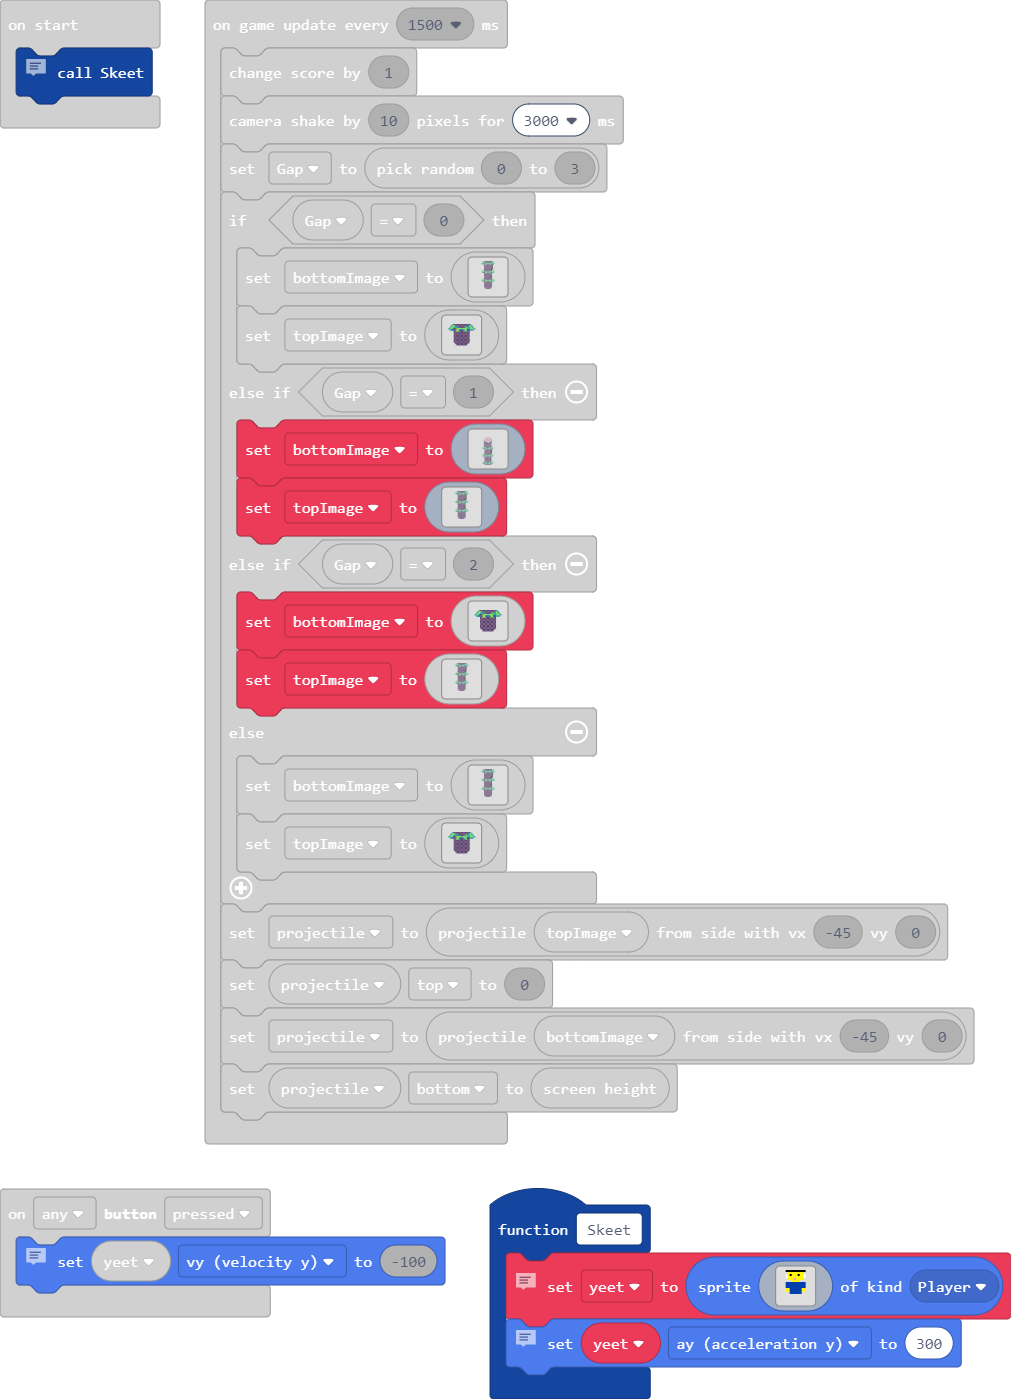
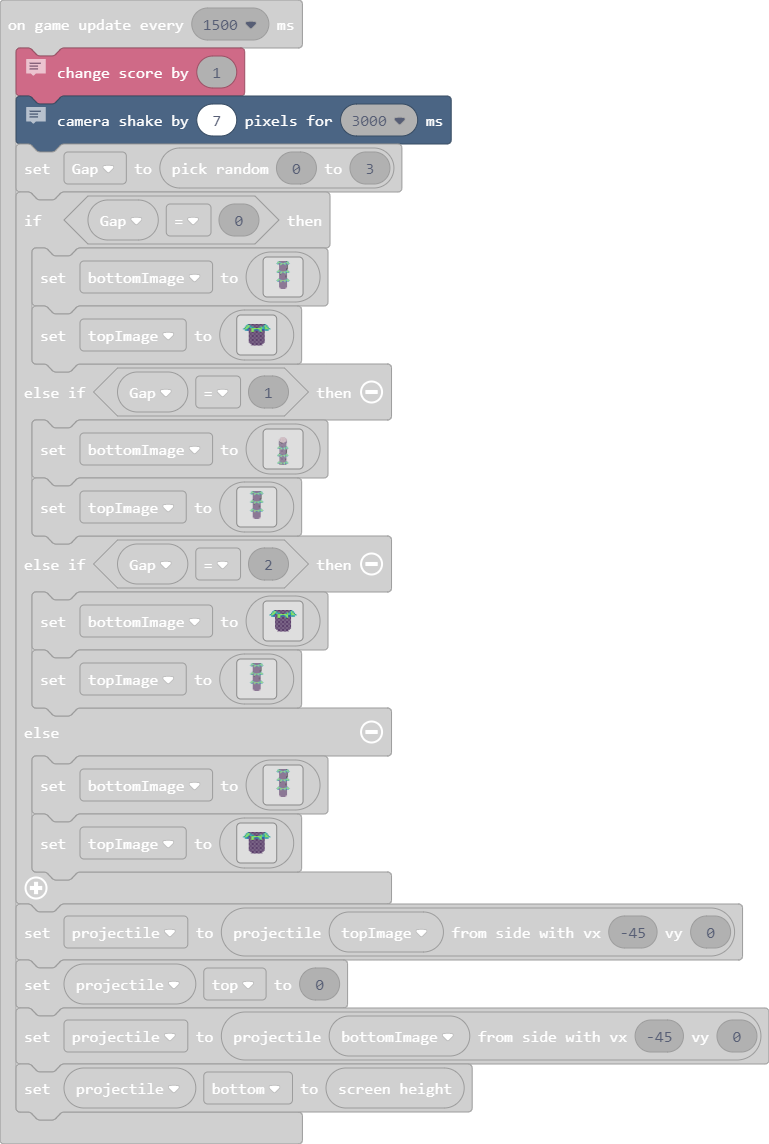
Update main.blocks, main.ts

diff --git a/main.ts b/main.ts
@@ -1,3 +1,6 @@
+sprites.onOverlap(SpriteKind.Player, SpriteKind.Projectile, function (sprite, otherSprite) {
+    game.over(false)
+})
 function Skeet () {
     // Sprite design and insertion
     yeet = sprites.create(img`
@@ -21,9 +24,6 @@ function Skeet () {
     // Controls movement direction of sprite
     yeet.ay = 300
 }
-sprites.onOverlap(SpriteKind.Player, SpriteKind.Projectile, function (sprite, otherSprite) {
-    game.over(false)
-})
 controller.anyButton.onEvent(ControllerButtonEvent.Pressed, function () {
     // This is made as a jump feature
     yeet.vy = -100
@@ -37,8 +37,10 @@ let yeet: Sprite = null
 // code created in the function
 Skeet()
 game.onUpdateInterval(1500, function () {
+    // Adds 1 point to score
     info.changeScoreBy(1)
-    scene.cameraShake(10, 3000)
+    // Shakes screen to add difficulty
+    scene.cameraShake(7, 3000)
     Gap = Math.randomRange(0, 3)
     if (Gap == 0) {
         bottomImage = img`
